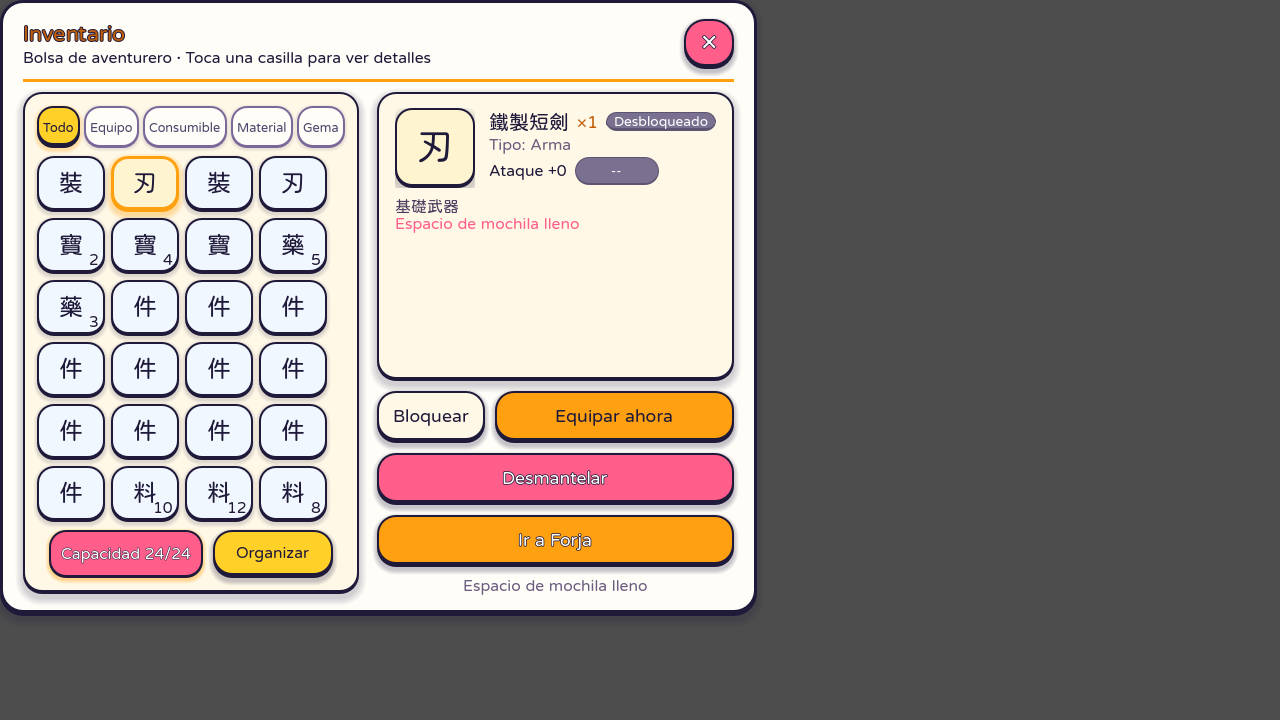
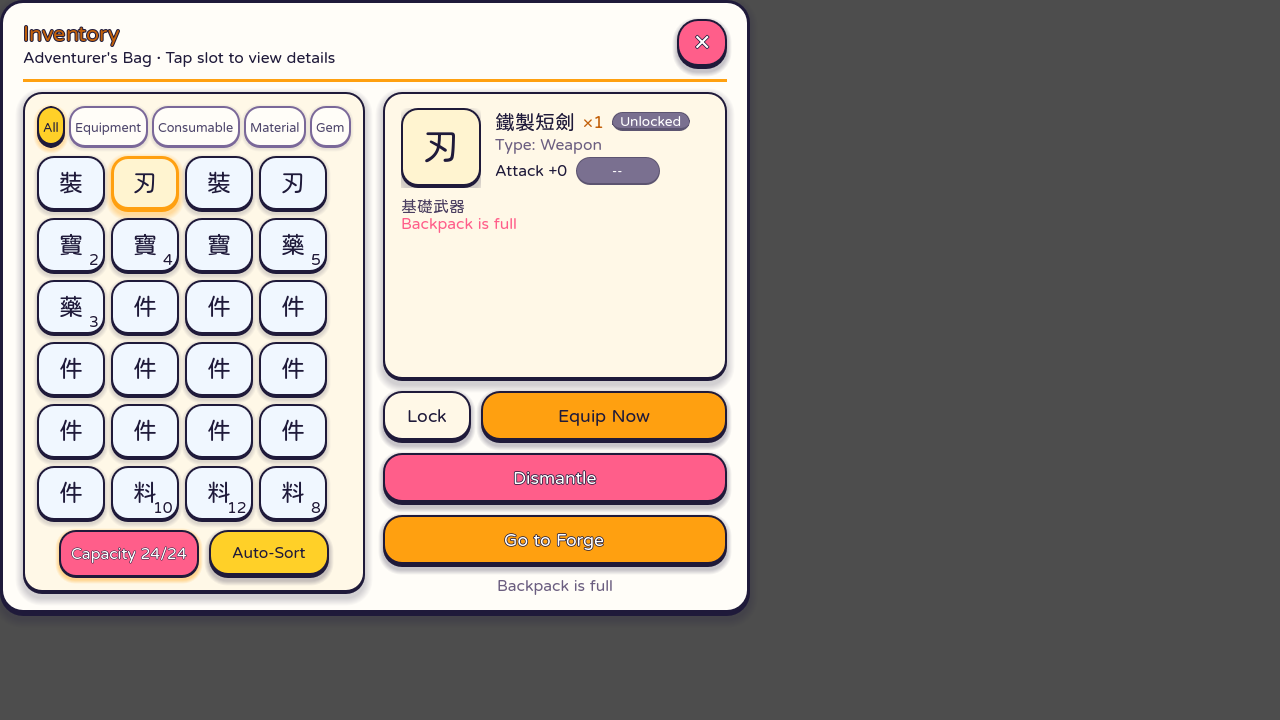
fix(inventory): 修正實機存證截圖時序與滿載判斷狀態一致性 (t_3dbebffd)

diff --git a/proofs/t_3dbebffd/CHECKLIST.md b/proofs/t_3dbebffd/CHECKLIST.md
@@ -36,8 +36,8 @@
 | 02 | `proof_02_maple_inv_capacity_chip_filter.png` | 分類頁籤切換：切換至【裝備】Chip，膠囊即時動態更新為裝備格數『容量 4/24』 | ✓ | ✓ | ✓ | `547f7210e7ff` | **PASS** |
 | 03 | `proof_03_maple_inv_capacity_full_warning_coral.png` | 滿載狀態 (24/24)：格數達上限，膠囊自動切換為珊瑚粉底 (#FF5E8A) 暖橘光暈警示色階，白字高對比顯示『容量 24/24』 | ✓ | ✓ | ✓ | `eb7ee62203de` | **PASS** |
 | 04 | `proof_04_maple_inv_capacity_full_item_selected_tip.png` | 滿載選取物品提示：選中武器時，操作提示標籤與詳情卡片均高亮提示『背包空間已滿』 | ✓ | ✓ | ✓ | `f91730a11e16` | **PASS** |
-| 05 | `proof_05_maple_inv_capacity_en_locale.png` | 英文語系 (en) 滿載展示：膠囊顯示『Capacity 24/24』，提示『Backpack is full』，100% 零 CJK 殘留 | ✓ | ✓ | ✓ | `16ee6f73ef3b` | **PASS** |
-| 06 | `proof_06_maple_inv_capacity_ja_locale.png` | 日語語系 (ja) 滿載展示：膠囊顯示『容量 24/24』，提示『バッグの空きがありません』，漢字常用規範對齊 | ✓ | ✓ | ✓ | `fa5876961da5` | **PASS** |
+| 05 | `proof_05_maple_inv_capacity_en_locale.png` | 英文語系 (en) 滿載展示：膠囊顯示『Capacity 24/24』，提示『Backpack is full』，100% 零 CJK 殘留 | ✓ | ✓ | ✓ | `fa5876961da5` | **PASS** |
+| 06 | `proof_06_maple_inv_capacity_ja_locale.png` | 日語語系 (ja) 滿載展示：膠囊顯示『容量 24/24』，提示『バッグの空きがありません』，漢字常用規範對齊 | ✓ | ✓ | ✓ | `23009795aa2f` | **PASS** |
 
 ---
 
